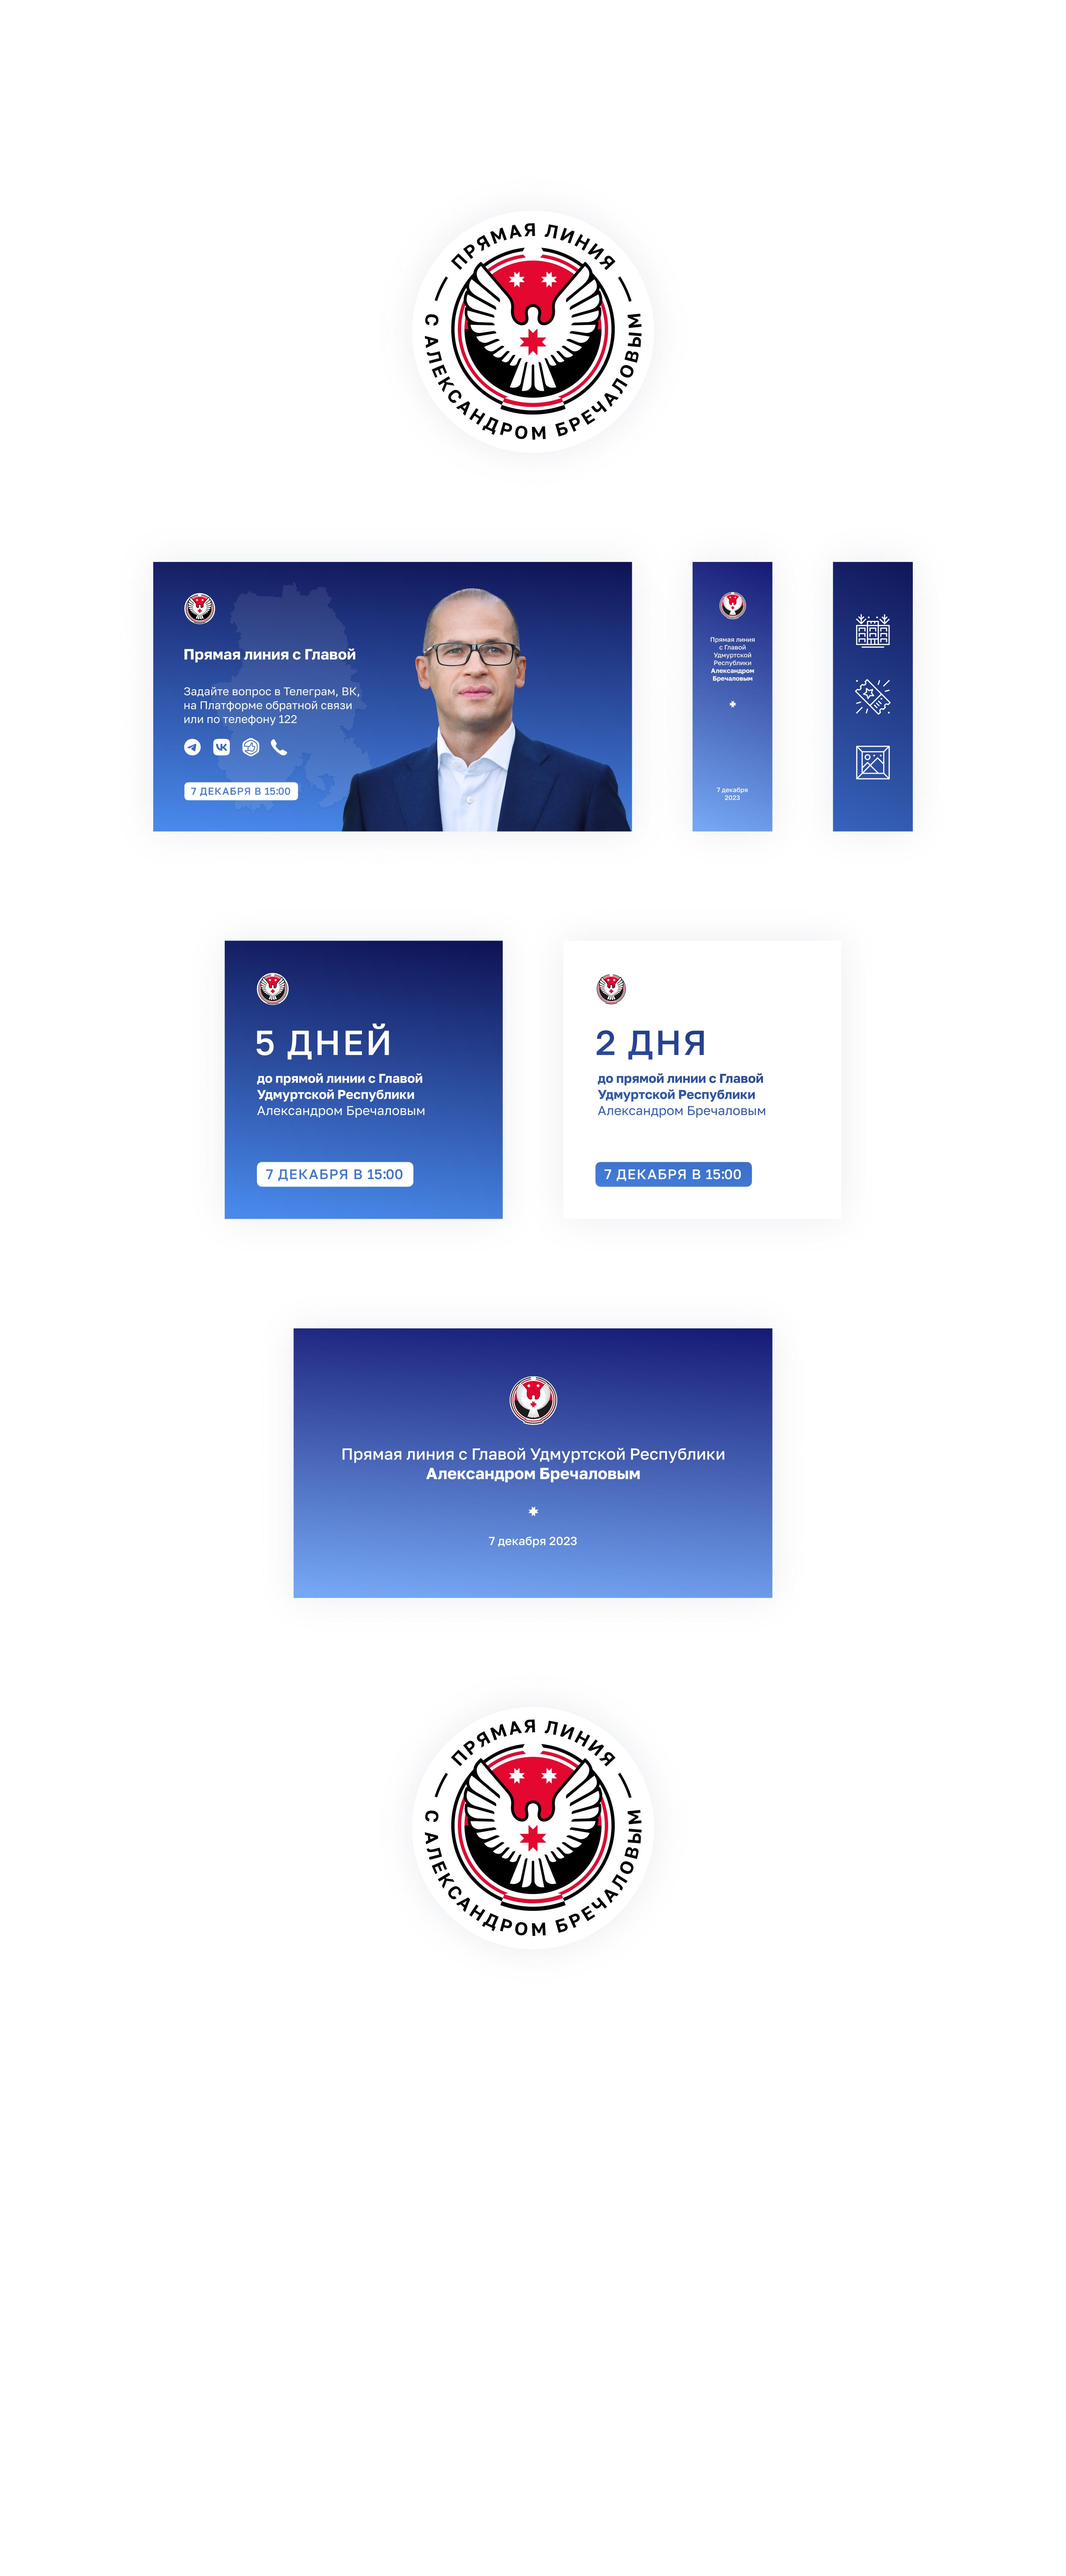
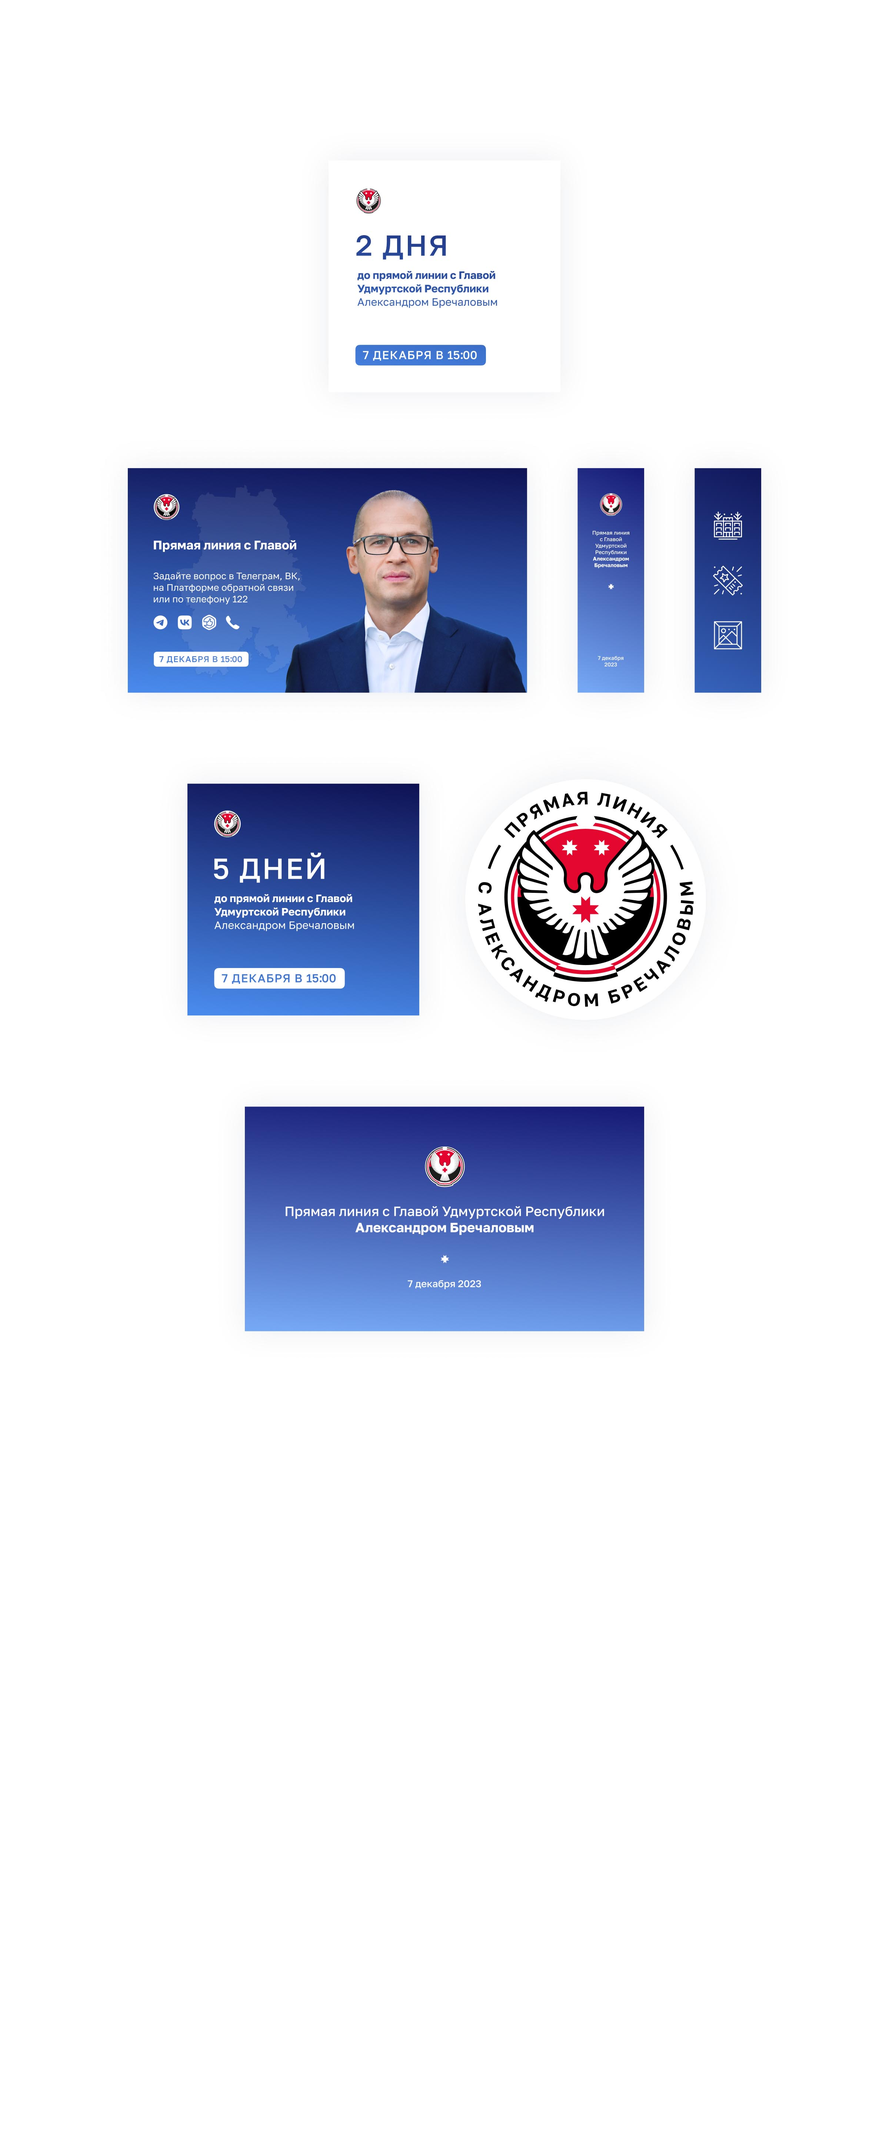
Pics updated

Changed region(s): [[0.5312, 0.3748, 0.7812, 0.4685], [0.4062, 0.0937, 0.5938, 0.1874], [0.4062, 0.6559, 0.5938, 0.7496]]

diff --git a/index.html b/index.html
@@ -109,7 +109,7 @@
       <br>а&nbsp;значит
       все макеты
       будут
-      соответствовать <a class="" href="projects/izh-plates">гайдлайнам</a>.
+      соответствовать <a class="" href="projects/izh-plates">руководству</a>.
     </p>
   </div>
 
@@ -163,7 +163,7 @@
 
   <div class="ids__text-width">
     <h6 class="secondary">Дизайнер ⋅ 2024</h6>
-    <p class="loud">Схема движения автобусов Ижевска</p>
+    <p class="loud">Схема движения автобусов Ижевска</p>
     <p>Чтобы обновить старую запутанную схему, я&nbsp;изучил расписание 26&nbsp;городских автобусов
       и&nbsp;разделил маршруты по&nbsp;регулярности движения.</p>
     <!-- <p>Новая схема более точно отражает географию города, линии сопровождаются номерами маршрутов, а&nbsp;пиктограммы
@@ -205,7 +205,7 @@
         </p>
       </div>
     </div>
-
+    <div class="ids__space S"></div>
     <a class="button primary aside bus" target="_blank"
       href="assets/images/izh-bus-map/izhevsk-bus-map-1.0.pdf">Скачать
       схему</a>
@@ -216,9 +216,10 @@
 
   <div class="ids__space XL"></div>
   <div class="ids__text-width">
-    <h6 class="secondary">Дизайнер ⋅ 2024</h6>
-    <p class="loud">Награда для волонтёров Удмуртии</p>
-    <p>Сделал дизайн почётного знака &laquo;За&nbsp;вклад в&nbsp;развитие добровольчества Удмуртии&raquo;.</p>
+    <h6 class="secondary">Дизайнер ⋅ 2023</h6>
+    <p class="loud">Награда для волон&shy;тёров Удмуртии</p>
+    <p>Сделал дизайн почётного знака &laquo;За&nbsp;вклад в&nbsp;развитие добровольчества Удмуртии&raquo;. Это высшая
+      региональная награда для волонтёров.</p>
   </div>
   <aside class="medal">
     <div>
@@ -226,8 +227,8 @@
         <div class="video-container">
           <img style="border-radius: var(--ids__radius); overflow: hidden;"
             src="assets/images/all-projects/medal/medal-on-chest.jpg" alt="">
+          <p class="aside figcaption medal">Награда выглядит строго и лаконично.</p>
         </div>
-        <p class="aside figcaption transport">Ненавязчивая анимация на фоне.</p>
       </div>
 
 
@@ -239,30 +240,39 @@
         <!-- <img style="border-radius: var(--ids__radius); overflow: hidden;"
           src="assets/images/izh-transport-navigation/izh-transport-navigation-cover.jpg"
           alt=""> -->
-        <p class="aside figcaption transport">Форматы для разных носителей.
+        <p class="aside figcaption medal">Символ сердца заполняется красной глазурью.
         </p>
+      </div>
 
+      <div class="ids__space S"></div>
+      <div>
+        <!-- <div class="scroll-moving-container"> -->
+        <img src="assets/images/all-projects/medal/medal-avers-revers.jpg" alt="">
+        <!-- </div> -->
+        <!-- <img style="border-radius: var(--ids__radius); overflow: hidden;"
+          src="assets/images/izh-transport-navigation/izh-transport-navigation-cover.jpg"
+          alt=""> -->
+        <p class="aside figcaption medal">Аверс и реверс.
+        </p>
       </div>
 
 
-      <div class="ids__space S"></div>
+      <!--       <div class="ids__space S"></div>
       <div class="main-projects-2col comparison">
         <div>
           <img src="assets/images/all-projects/medal/medal-avers.jpg"
             alt="Автозаполнение адреса">
-          <p class="aside figcaption transport">Аверс.</p>
+          <p class="aside figcaption medal">Аверс.</p>
         </div>
         <div>
           <img src="assets/images/all-projects/medal/medal-revers.jpg"
             alt="Перевод на удмуртский язык">
-          <p class="aside figcaption transport" lang="ru">Реверс.</p>
+          <p class="aside figcaption medal" lang="ru">Реверс.</p>
         </div>
-      </div>
-
-
-
-      <a class="button primary aside transport" target="_blank"
-        href="projects/izh-transport-navigation">Посмотреть
+      </div> -->
+      <div class="ids__space S"></div>
+      <a class="button primary aside medal" target="_blank"
+        href="projects/medal">Посмотреть
         проект</a>
   </aside>
 
@@ -271,7 +281,7 @@
 
   <div class="ids__space XL"></div>
   <div class="ids__text-width">
-    <h6 class="secondary">Дизайнер ⋅ 2023</h6>
+    <h6 class="secondary">Дизайнер ⋅ 2022</h6>
     <p class="loud">Оформление прямой линии Главы Удмуртии</p>
     <p>Для ежегодной прямой линии Главы Удмуртии я&nbsp;сделал оформление медиаэкранов в&nbsp;студии и&nbsp;постов
       в&nbsp;соцсетях.</p>
@@ -287,38 +297,30 @@
         <p class="aside figcaption transport">Ненавязчивая анимация на фоне.</p>
       </div>
 
-
       <div class="ids__space S"></div>
       <div>
         <div class="scroll-moving-container">
           <img src="assets/images/all-projects/glava/glava-pics.jpg" alt="">
         </div>
-        <!-- <img style="border-radius: var(--ids__radius); overflow: hidden;"
-          src="assets/images/izh-transport-navigation/izh-transport-navigation-cover.jpg"
-          alt=""> -->
-        <p class="aside figcaption transport">Форматы для разных носителей.
+        <p class="aside figcaption glava">Форматы для разных носителей.
         </p>
-
       </div>
-
 
       <div class="ids__space S"></div>
       <div class="main-projects-2col comparison">
         <div>
           <img src="assets/images/all-projects/glava/glava-before.jpg"
             alt="Автозаполнение адреса">
-          <p class="aside figcaption transport">Было.</p>
+          <p class="aside figcaption glava">Было.</p>
         </div>
         <div>
           <img src="assets/images/all-projects/glava/glava-after.jpg"
             alt="Перевод на удмуртский язык">
-          <p class="aside figcaption transport" lang="ru">Стало.</p>
+          <p class="aside figcaption glava" lang="ru">Стало.</p>
         </div>
       </div>
 
-
-
-      <a class="button primary aside transport" target="_blank"
+      <a class="button primary aside glava" target="_blank"
         href="projects/glava">Посмотреть
         проект</a>
   </aside>
@@ -326,27 +328,12 @@
 
 
 
-
-
-
-
-
-
-
-
-
-
-
-
-
-  <div class="ids__space XL"></div>
+  <!--   <div class="ids__space XL"></div>
   <div class="ids__text-width">
     <h6 class="secondary">Дизайнер ⋅ 2023</h6>
     <p class="loud">Система транспортной навигации Ижевска</p>
     <p>Сообщения для пассажиров со&nbsp;временем образуют слой визуального мусора и&nbsp;усложняют информирование.
       Я&nbsp;систематизировал информацию о&nbsp;правилах проезда и&nbsp;сформулировал принципы верстки.</p>
-    <!-- <p>Размеры носителей подобраны с&nbsp;учетом разных моделей и&nbsp;видов транспорта, а&nbsp;места размещения описаны
-      в&nbsp;руководстве.</p> -->
   </div>
   <aside class="transport">
     <div>
@@ -365,12 +352,8 @@
             src="assets/images//izh-transport-navigation/izh-transport-navigation-pics.jpg"
             alt="">
         </div>
-        <!-- <img style="border-radius: var(--ids__radius); overflow: hidden;"
-          src="assets/images/izh-transport-navigation/izh-transport-navigation-cover.jpg"
-          alt=""> -->
         <p class="aside figcaption transport">Размеры подобраны с&nbsp;учетом разных моделей и&nbsp;видов транспорта.
         </p>
-
       </div>
 
 
@@ -390,12 +373,10 @@
         </div>
       </div>
 
-
-
       <a class="button primary aside transport" target="_blank"
         href="projects/izh-transport-navigation">Посмотреть
         проект</a>
-  </aside>
+  </aside> -->
 </div>
 
 
